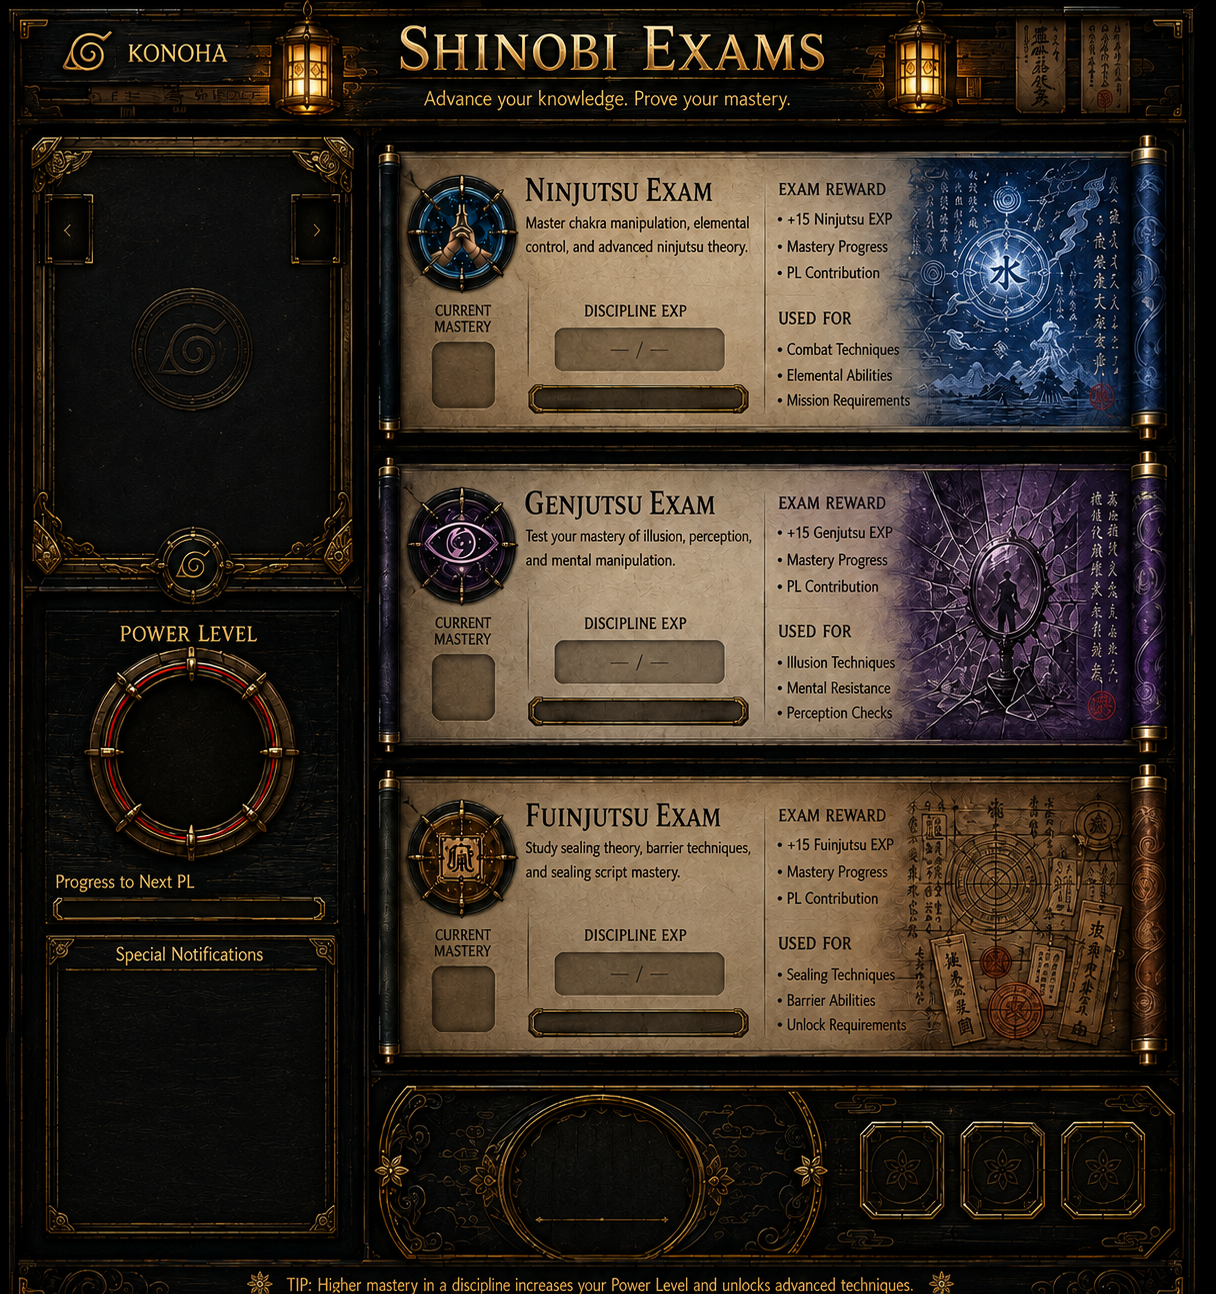
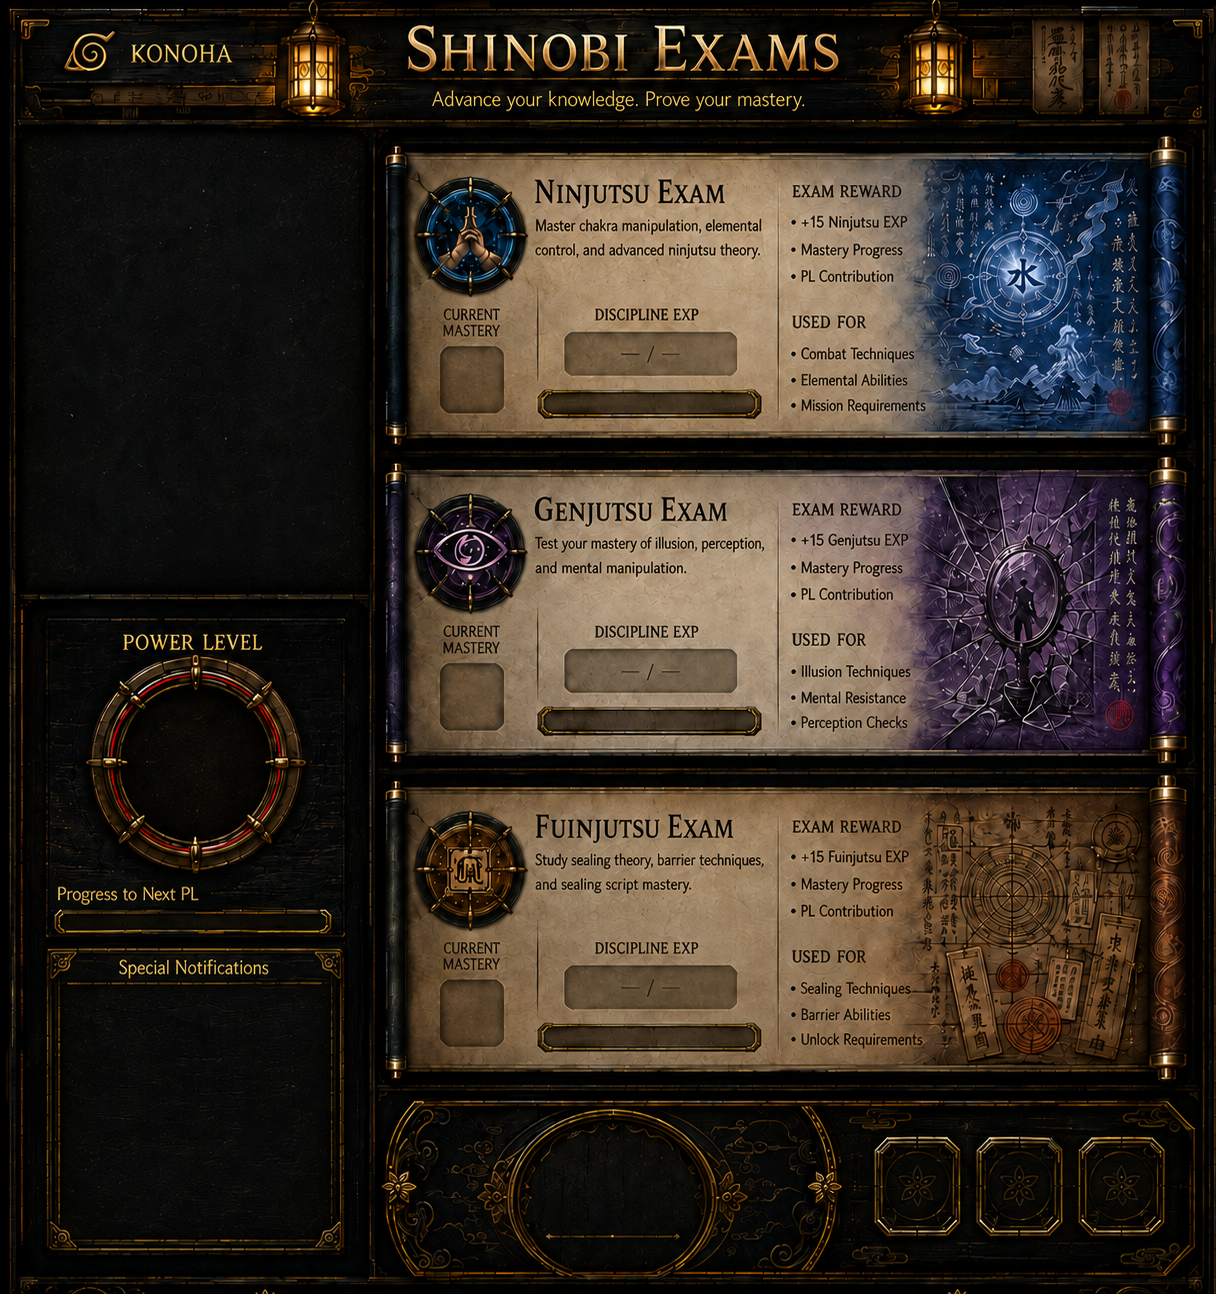
ui update

diff --git a/style.css b/style.css
@@ -5395,10 +5395,10 @@ body {
         relative !important;
 
     left:
-        50% !important;
+        69% !important;
 
     width:
-        142% !important;
+        180% !important;
 
     aspect-ratio:
         1 / 1 !important;
